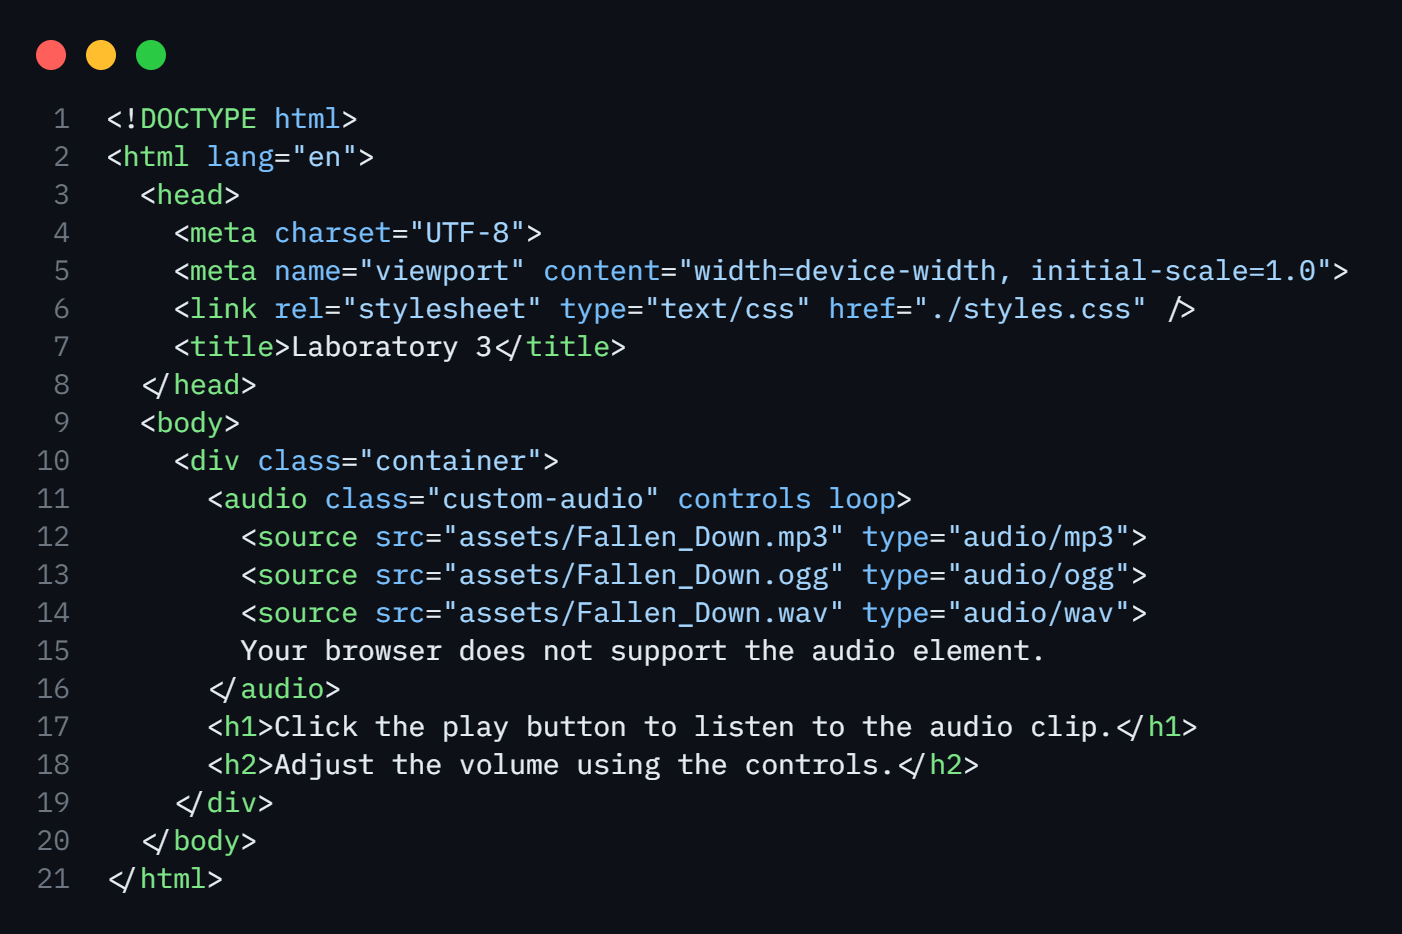
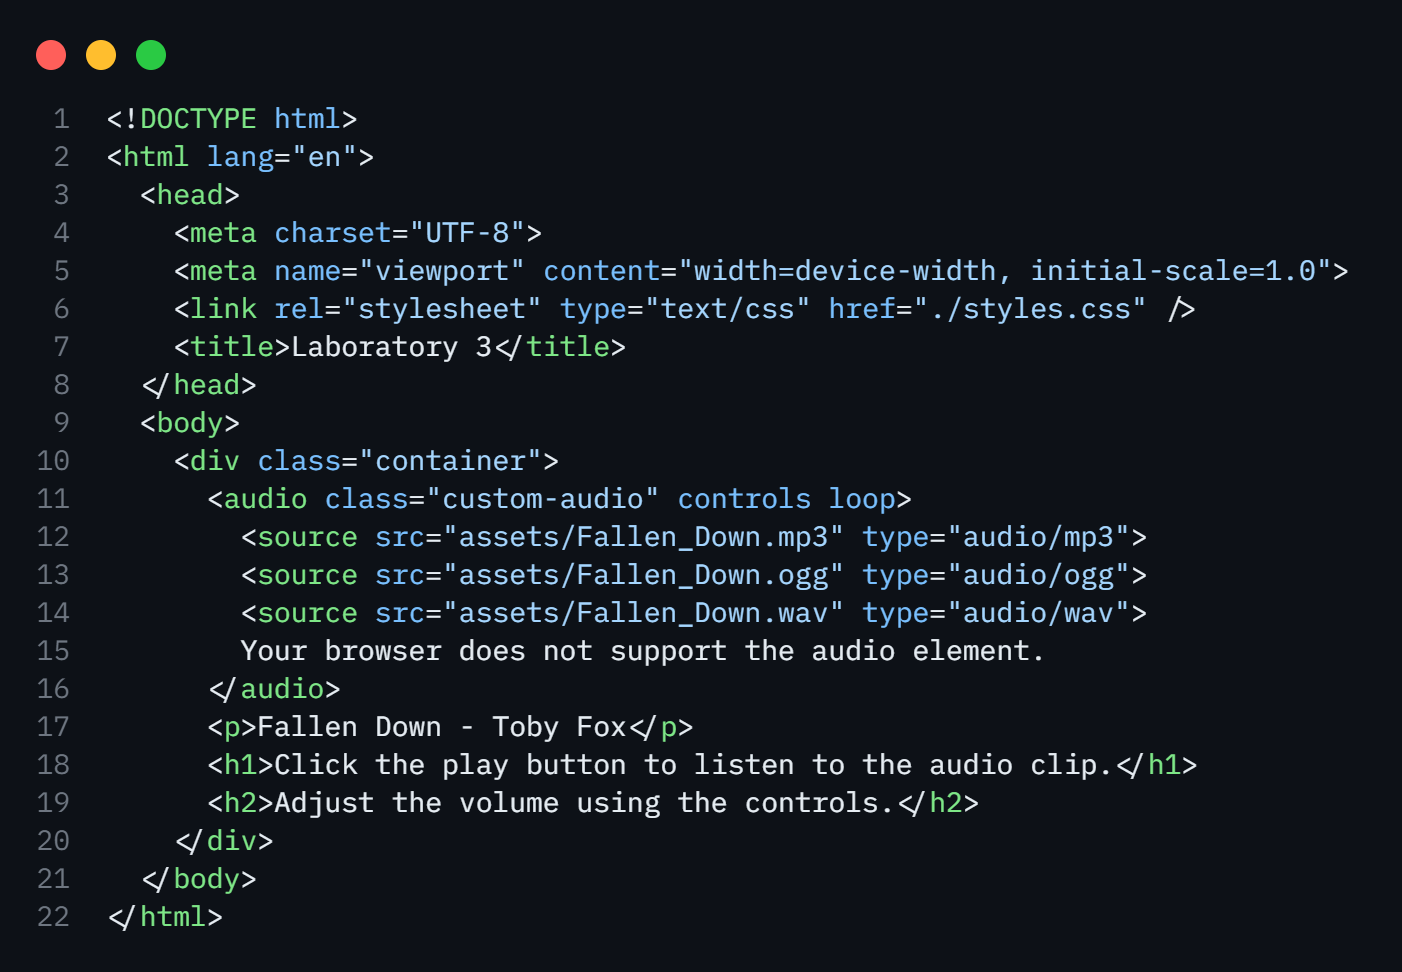
some changes in lab3

Changed region(s): [[0.0307, 0.0931, 0.9508, 0.9625]]

diff --git a/02/audio-and-video/lab3/Laboratory3.html b/02/audio-and-video/lab3/Laboratory3.html
@@ -62,6 +62,7 @@ hands-on experience using HTML <audio> elements to play audio content effectivel
         <source src="assets/Fallen_Down.wav" type="audio/wav">
         Your browser does not support the audio element.
       </audio>
+      <p>Fallen Down - Toby Fox</p>
       <h1>Click the play button to listen to the audio clip.</h1>
       <h2>Adjust the volume using the controls.</h2>
     </div>

diff --git a/02/audio-and-video/lab3/styles.css b/02/audio-and-video/lab3/styles.css
@@ -28,6 +28,10 @@ body {
 	box-shadow: 0 4px 15px rgba(0, 0, 0, 0.6);
 }
 
+p {
+	font-size: 1.5rem;
+}
+
 h1 {
 	color: #e5484d;
 	font-size: 2.5rem;
